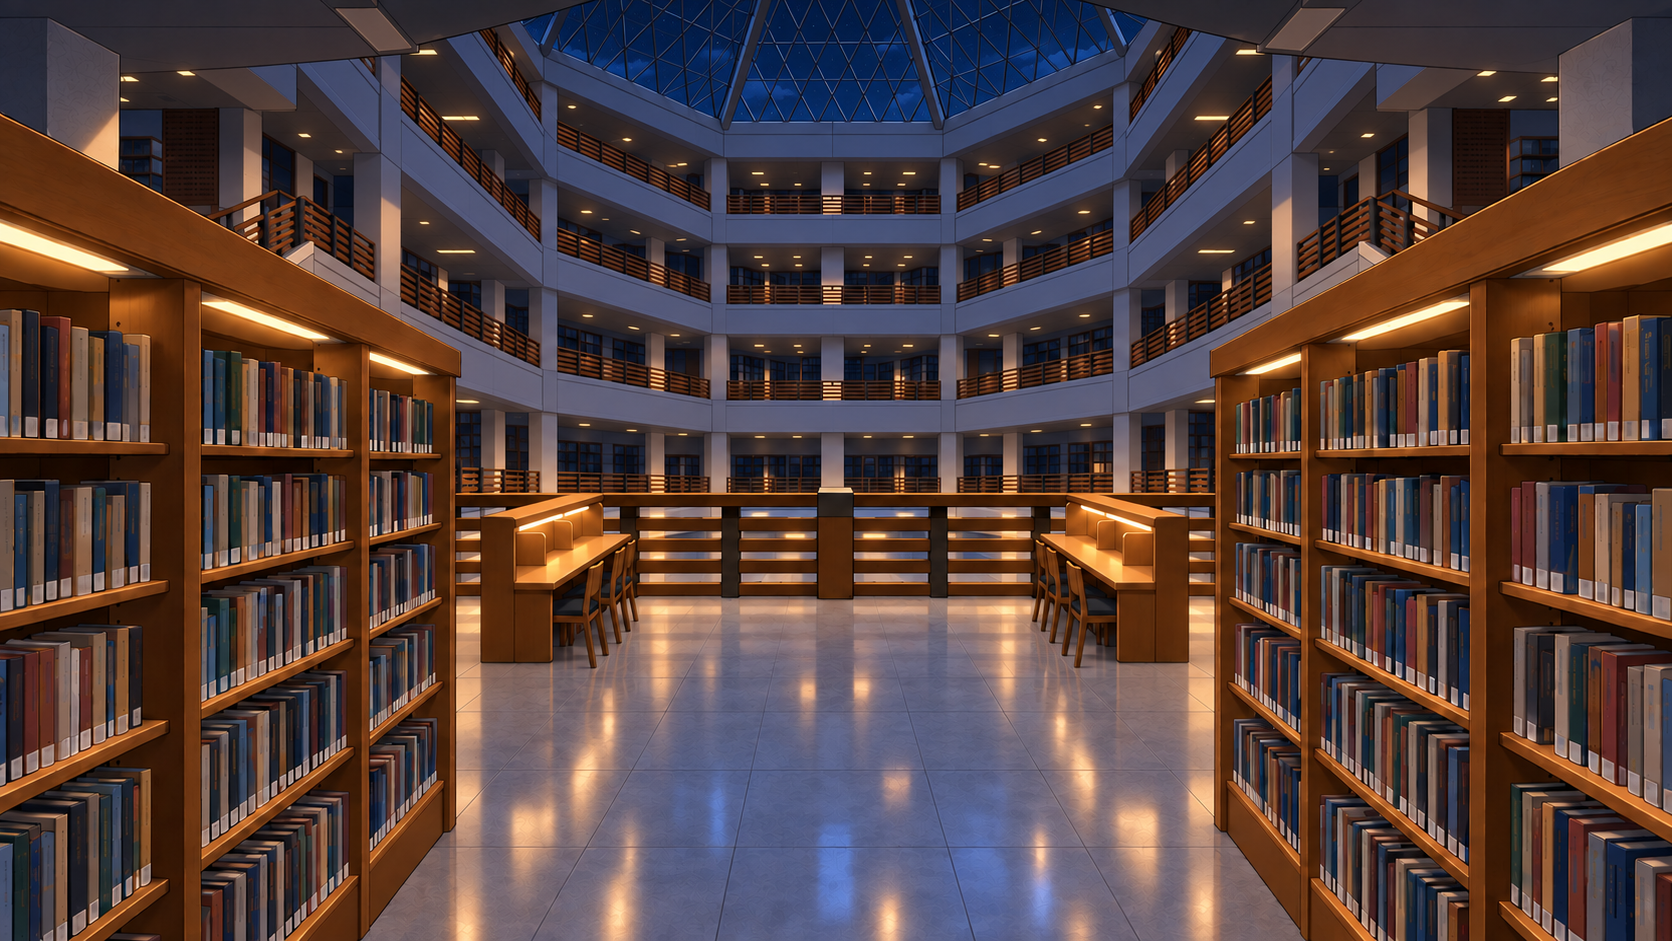
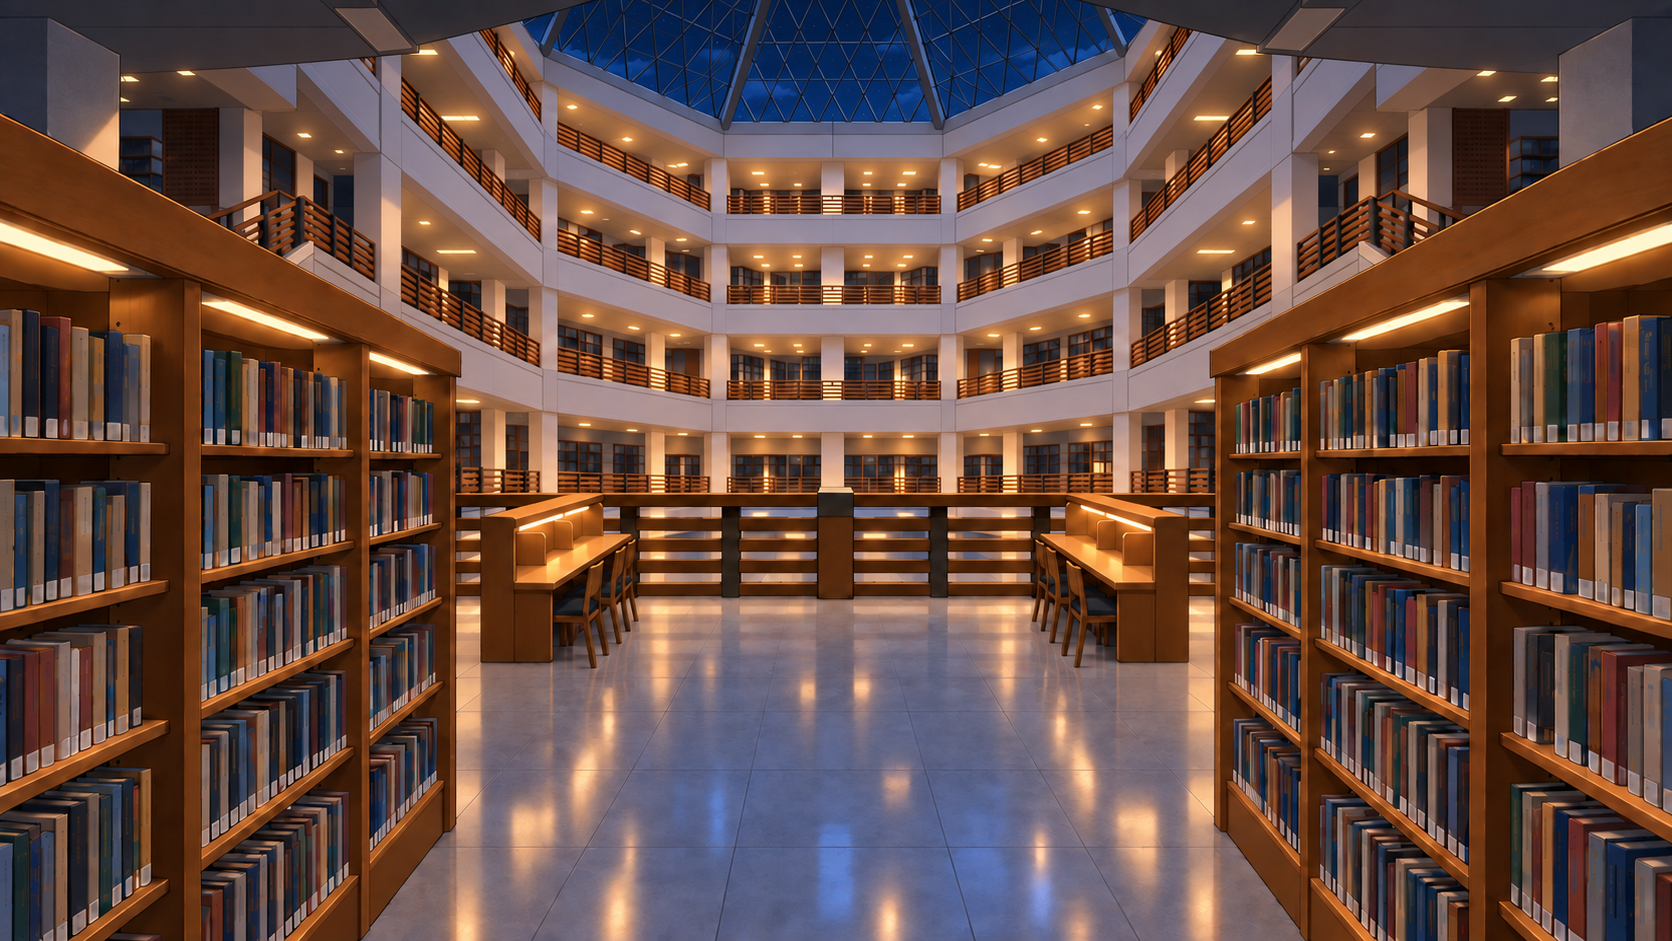
art: brighten distant library night floors

Changed region(s): [[0.0622, 0.0, 0.933, 0.5547], [0.7464, 0.5547, 0.7775, 0.5855]]

diff --git a/docs/art/tasks/m1-library-environment.md b/docs/art/tasks/m1-library-environment.md
@@ -10,9 +10,11 @@
 | --- | --- | --- |
[4 lines of base64/hex data omitted]
 
 Manifest 以 `concept_005_night` 单独承载 `unselected + pending`，避免把日常状态的既有批准扩张到夜间新图。三图均为 1672 × 941、RGB、不透明；内建 imagegen 的精确提示词与输出映射见 005 目录 `generation-night.md`。夜间仍是现实校园，只改变时间、照明、反射和数字导视强度；异变需在本轮夜景审核后另行生成。
+
+2026-09-17 反馈修订：负责人指出 `shelf-to-atrium-night.png` 的远处楼层偏暗。本轮仅提高中央远处多层环廊的暖色顶灯与局部反射补光，保持夜空、前景书架／短桌曝光及空间结构；修订图继续待评审。
 
 ## 概念批准：concept_005（2026-09-17）
 

diff --git a/design/concepts/m1-library-environment/m1_library_environment/005/generation-night.md b/design/concepts/m1-library-environment/m1_library_environment/005/generation-night.md
@@ -35,7 +35,12 @@ Avoid: anomaly effects, glitch, data streams, floating HUD, structural warping, 
 补充：保留书架间居中通道、栏杆边两张短桌、书架至栏杆过道、对称八角楼层、书籍和采光顶；暖色桌灯与书架灯对比冷蓝环境光。
 
 - 内建输出：`exec-6e11311c-990c-4abf-8f18-b36d48906ce8.png`
[2 lines of base64/hex data omitted]
+
+2026-09-17 按反馈修订远处楼层亮度。使用初版夜景作为 edit target，只提高中央远处多层环廊的暖色顶灯和局部反射补光，保持前景曝光、夜空、结构与物件不变；避免变成白天、过曝或引入异变效果。
+
+- 修订内建输出：`exec-0147850e-ef1c-47dd-8133-6beece692750.png`
[1 lines of base64/hex data omitted]
 
 ## 自检边界
 
